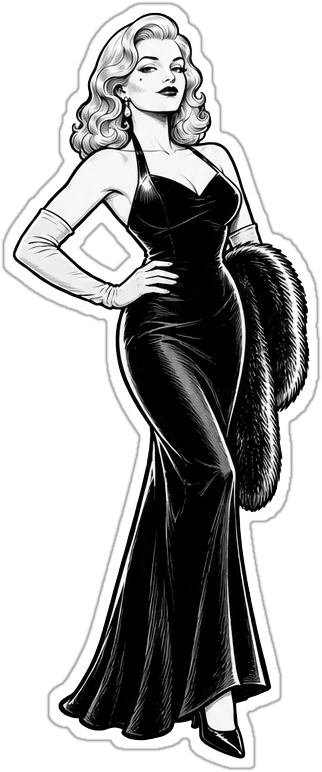
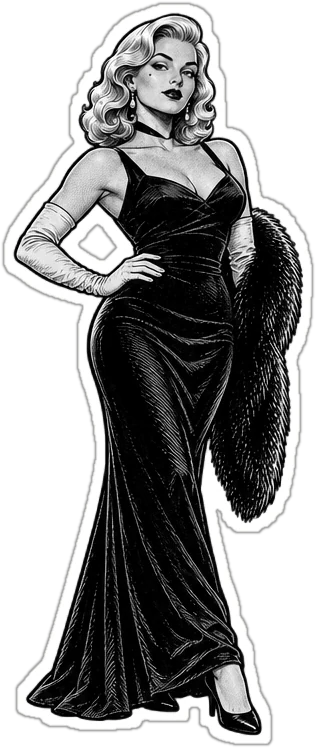
The Precinct: Vera's six poses redrawn to match the cast, and her choker joins her look

diff --git a/the-precinct/theme.js b/the-precinct/theme.js
@@ -38,7 +38,7 @@ export default {
     {
       id: 'femme', name: 'Vera Sinclair', short: 'Vera Sinclair', role: 'The Femme Fatale', tag: 'The one who knows',
       story: 'She admires Frank Rourke, but it is Edward Novak she wants.',
-      look: 'a woman in her thirties, shoulder-length platinum-blonde hair in soft 1940s waves, a beauty mark on her cheek, dark lipstick and arched brows, pearl drop earrings, a long black sleeveless evening gown, long pale evening gloves, a black fur stole over one arm, black heels, a cool sideways glance',
+      look: 'a woman in her thirties, shoulder-length platinum-blonde hair in soft 1940s waves, a beauty mark on her cheek, dark lipstick and arched brows, pearl drop earrings, a thin black ribbon choker, a long black sleeveless evening gown, long pale evening gloves, a black fur stole over one arm, black heels, a cool sideways glance',
       img: IMG + 'ref/vera-card.jpg',
     },
     {
@@ -489,8 +489,8 @@ export default {
       ['note', 'Crumpled note', 20, 'thing'], ['jacket', 'Folded jacket', 26, 'thing'], ['tie', 'Tie', 20, 'thing'],
     ] },
     { who: 'Vera Sinclair', dir: 'vera', items: [
-      ['standing', 'Standing', 31], ['side', 'Side on', 24], ['walking-away', 'Walking away', 28],
-      ['hand-on-hip', 'Hand on hip', 34], ['whispering', 'Whispering', 27], ['coffee', 'With a coffee', 28],
+      ['standing', 'Standing', 29], ['side', 'Side on', 22], ['walking-away', 'Walking away', 27],
+      ['hand-on-hip', 'Hand on hip', 34], ['whispering', 'Whispering', 29], ['coffee', 'With a coffee', 29],
       ['face-glance', 'Sideways glance', 32, 'face'], ['face-knowing', 'Knowing smile', 33, 'face'], ['face-eyebrow', 'Raised eyebrow', 34, 'face'],
       ['face-alarmed', 'Alarmed', 34, 'face'], ['face-sad', 'Sad', 36, 'face'], ['face-laughing', 'Laughing', 36, 'face'],
       ['earrings', 'Pearl earrings', 15, 'thing'], ['gloves', 'Evening gloves', 19, 'thing'], ['stole', 'Fur stole', 23, 'thing'],
